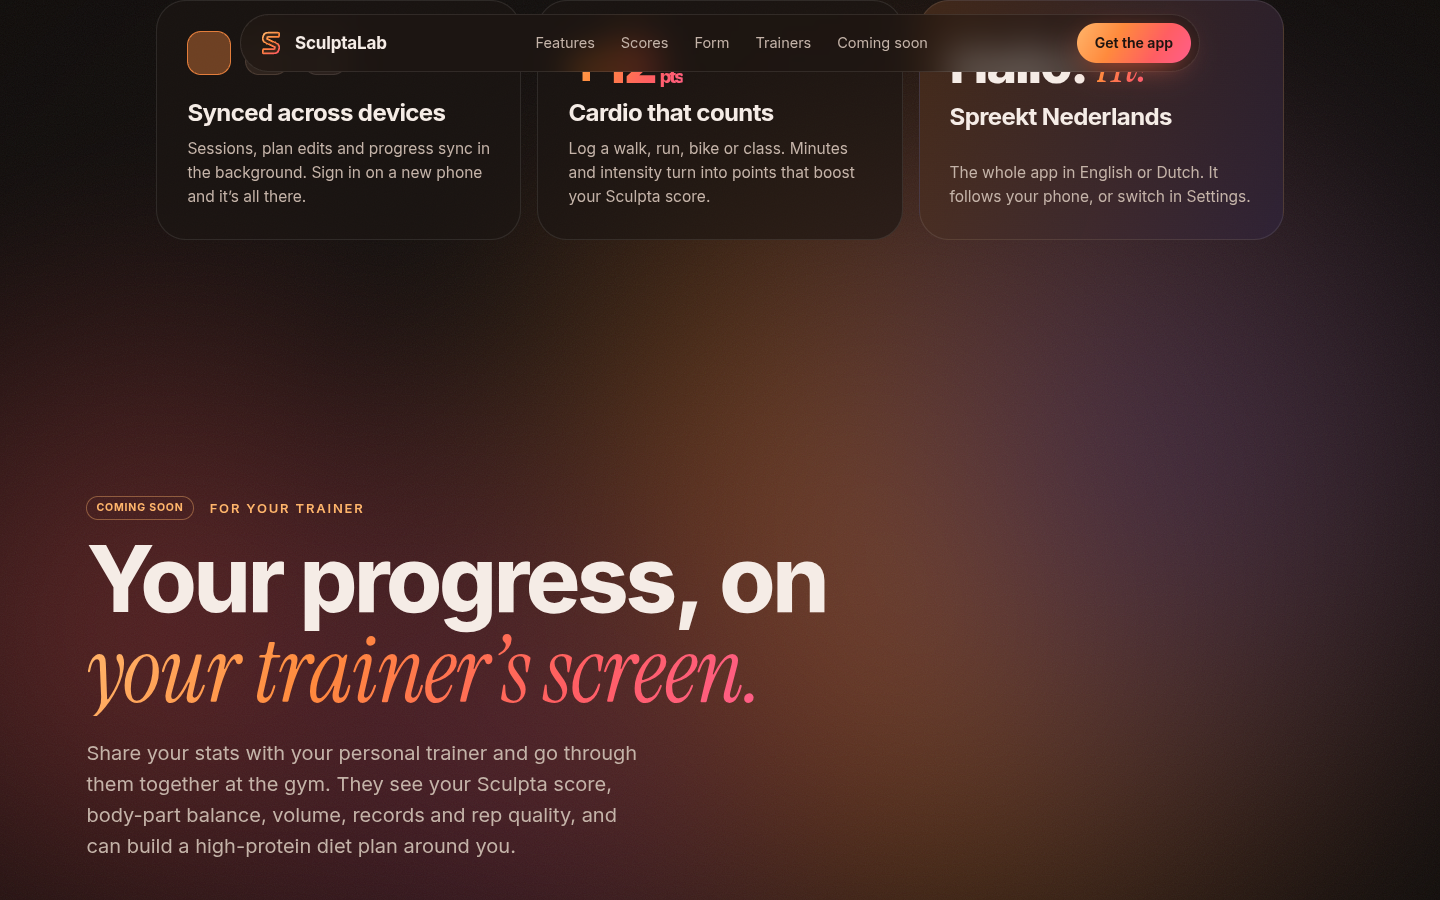
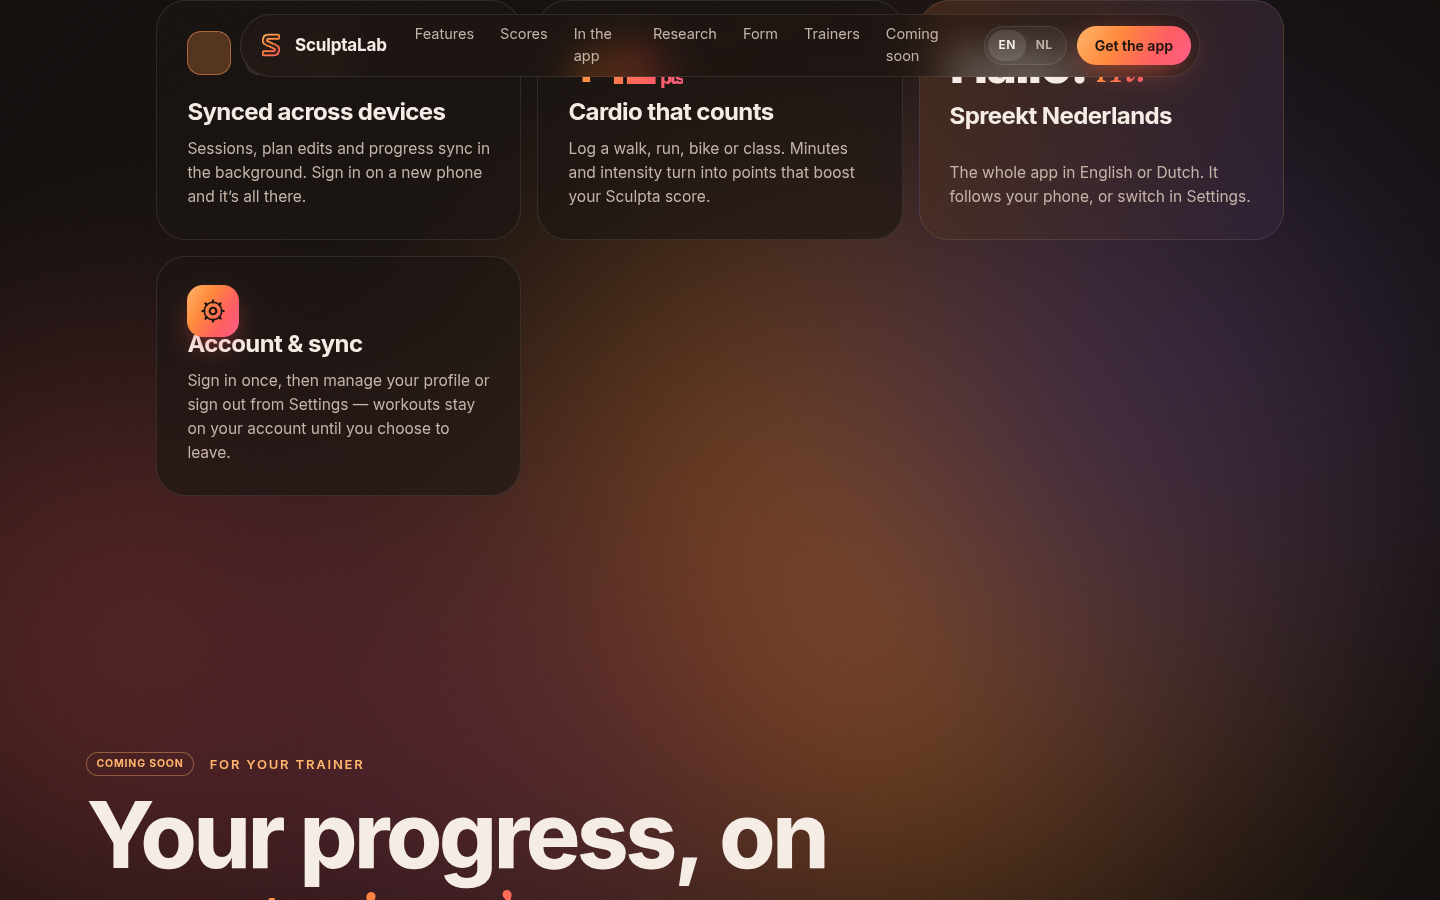
feat(site): integrate muscle flip, showcase, research and NL copy
Wire front/back muscle map flip, consolidate styles, add front.webp,
Dutch strings, and screenshot script targets for new sections.

diff --git a/index.html b/index.html
@@ -15,60 +15,6 @@
 <meta property="og:description" content="Sculpt your foundation. Personal plans, a score for every muscle, live form tracking." />
 <meta property="og:image" content="/og.png" />
 <meta property="og:type" content="website" />
-<style>
-.showcase,.research{padding:clamp(100px,16vh,180px) max(24px,6vw);max-width:1440px;margin:0 auto}
-.showcase-grid{display:grid;grid-template-columns:repeat(2,1fr);gap:clamp(20px,3vw,28px);margin-top:48px}
-.sc-feature{padding:24px;border-radius:28px;background:linear-gradient(180deg,rgba(42,33,29,.65),rgba(28,21,18,.4));border:1px solid var(--line)}
-.sc-feature h3{font-size:18px;margin-bottom:14px;letter-spacing:-.02em}
-.sc-feature .phone.sc-phone{width:min(240px,100%);margin:0 auto}
-.sc-feature .screen{position:relative;inset:auto;border-radius:28px;min-height:380px;padding:48px 14px 14px;font-size:11px}
-.mmap-body{position:relative;justify-self:center}
-.b2-flip{position:absolute;top:10px;right:10px;z-index:3;width:36px;height:36px;border-radius:50%;border:1px solid var(--line);background:rgba(12,10,9,.85);color:var(--ink);font-size:18px;cursor:pointer;backdrop-filter:blur(8px)}
-.body2d .b2-front{display:none}
-.cal-mo{font-size:13px;font-weight:700;margin-bottom:10px}
-.cal-grid{display:grid;grid-template-columns:repeat(7,1fr);gap:4px;text-align:center;font-size:9px;color:var(--muted)}
-.cal-grid b{display:grid;place-items:center;aspect-ratio:1;border-radius:8px;background:rgba(255,255,255,.04);position:relative}
-.cal-grid b.sel{background:rgba(255,138,61,.22);box-shadow:inset 0 0 0 1px rgba(255,138,61,.45);color:var(--ink)}
-.cal-grid b .dots{position:absolute;bottom:3px;left:50%;transform:translateX(-50%);display:flex;gap:2px}
-.cal-grid b .dots i{width:4px;height:4px;border-radius:50%}
-.cal-panel{margin-top:10px;padding:10px;border-radius:14px;background:rgba(255,255,255,.04);border:1px solid var(--line)}
-.s-dash .spark{width:72px;height:28px;flex:none}
-.s-dash .dash-mini{display:grid;grid-template-columns:1fr 1fr;gap:8px;margin-top:8px}
-.s-dash .radar-mini{height:88px}
-.s-dash .parts-mini{display:grid;grid-template-columns:1fr 1fr;gap:4px;font-size:9px}
-.s-dash .parts-mini div{display:flex;align-items:center;gap:4px}
-.s-dash .parts-mini i{flex:1;height:4px;border-radius:4px;background:rgba(255,255,255,.08);position:relative;overflow:hidden}
-.s-dash .parts-mini i::after{content:"";position:absolute;inset:0;width:var(--v,50%);background:var(--grad)}
-.stat-strip{display:flex;gap:8px;margin-top:8px;font-size:9px}
-.stat-strip span{flex:1;padding:6px;border-radius:10px;background:rgba(255,255,255,.05);text-align:center}
-.stat-strip b{display:block;font-size:13px}
-.led-row{display:grid;gap:8px;margin-top:4px}
-.led-row .lr{display:grid;grid-template-columns:72px 1fr auto;gap:8px;align-items:center;font-size:10px}
-.led-track{position:relative;height:22px;border-radius:8px;background:rgba(255,255,255,.06);overflow:hidden}
-.led-track s{position:absolute;top:4px;bottom:4px;left:28%;right:22%;border:1px dashed rgba(255,255,255,.25);border-radius:4px}
-.led-track i{position:absolute;inset:3px auto 3px 0;width:var(--v,50%);border-radius:6px;background:var(--grad)}
-.sess-head{font-size:12px;font-weight:700}
-.sess-meta{display:flex;flex-wrap:wrap;gap:8px;margin:8px 0;font-size:9px;color:var(--muted)}
-.sess-meta span{padding:4px 8px;border-radius:999px;background:rgba(255,255,255,.06)}
-.research-wrap{display:grid;grid-template-columns:1fr 1fr;gap:clamp(24px,4vw,48px);align-items:start;margin-top:48px}
-.research-wrap .phone{width:min(280px,100%);margin:0 auto}
-.evidence-card{padding:28px;border-radius:28px;background:linear-gradient(180deg,rgba(42,33,29,.72),rgba(28,21,18,.45));border:1px solid var(--line)}
-.evidence-card .chip.o{margin-bottom:12px}
-.ev-meter{margin:12px 0}
-.ev-meter label{display:flex;justify-content:space-between;font-size:12px;margin-bottom:4px}
-.ev-meter .bar{height:6px;border-radius:6px;background:rgba(255,255,255,.08);overflow:hidden}
-.ev-meter .bar i{display:block;height:100%;width:var(--v,80%);background:var(--grad);border-radius:6px}
-.research-strip{margin-top:16px;padding-top:12px;border-top:1px solid var(--line);font-size:11px;color:var(--muted)}
-.research-strip span{display:block;font-size:10px;letter-spacing:.1em;text-transform:uppercase;color:var(--b1);margin-bottom:6px}
-@media (max-width:900px){.showcase-grid{grid-template-columns:1fr}.research-wrap{grid-template-columns:1fr}.evidence-card{display:none}}
-@media (min-width:901px){.research-wrap .phone{display:block}}
-.bx-settings{min-height:200px}
-.bx-settings .fico{width:44px;height:44px;border-radius:14px;display:grid;place-items:center;background:rgba(255,138,61,.12);margin-bottom:12px}
-.bx-settings .fico svg{width:22px;height:22px;stroke:var(--b1);fill:none;stroke-width:1.8}
-.hero .scard .spark{width:64px;height:22px;margin-left:auto}
-.hero .scard .row.end{align-items:center;gap:10px}
-@media (max-width:700px){.nav nav{gap:14px;font-size:12.5px;flex-wrap:wrap}}
-</style>
 </head>
 <body>
 <a class="skip" href="#main">Skip to content</a>
@@ -314,12 +260,13 @@
       <h3>Your muscle map</h3>
       <p class="mm-sub">Tap a muscle to light it up. Tap ↻ beside the body to flip front and back.</p>
       <div class="mmap">
-      <div class="mmap-body">
-        <button type="button" class="b2-flip" aria-label="Flip body front or back">↻</button>
-      <figure class="body2d" aria-label="SculptaLab 2D muscle map; use ↻ to flip front and back; glutes highlighted on back view">
-        <img class="b2-base b2-back" src="/anatomy/back.webp" width="357" height="948" alt="" loading="lazy" decoding="async" />
-        <img class="b2-base b2-front" src="/anatomy/front.webp" width="357" height="948" alt="" loading="lazy" decoding="async" hidden />
-        <img class="b2-hl on" data-for="back-glutes" src="/anatomy/back-glutes.webp" width="357" height="948" alt="" loading="lazy" decoding="async" /><img class="b2-hl" data-for="back-hamstrings" src="/anatomy/back-hamstrings.webp" width="357" height="948" alt="" loading="lazy" decoding="async" /><img class="b2-hl" data-for="front-quads" src="/anatomy/front-quads.webp" width="357" height="948" alt="" loading="lazy" decoding="async" /><img class="b2-hl" data-for="back-calves" src="/anatomy/back-calves.webp" width="357" height="948" alt="" loading="lazy" decoding="async" /><img class="b2-hl" data-for="back-back" src="/anatomy/back-back.webp" width="357" height="948" alt="" loading="lazy" decoding="async" /><img class="b2-hl" data-for="back-shoulders" src="/anatomy/back-shoulders.webp" width="357" height="948" alt="" loading="lazy" decoding="async" /><img class="b2-hl" data-for="back-arms" src="/anatomy/back-arms.webp" width="357" height="948" alt="" loading="lazy" decoding="async" /><img class="b2-hl" data-for="front-core" src="/anatomy/front-core.webp" width="357" height="948" alt="" loading="lazy" decoding="async" />
+      <div class="mmap-col">
+      <div class="mmap-flip-hit" tabindex="0" role="button" aria-label="Flip body front or back"></div>
+      <figure class="body2d is-back" aria-label="SculptaLab 2D muscle map; tap beside the body or ↻ to flip front and back">
+        <img class="b2-base b2-back-base" src="/anatomy/back.webp" width="357" height="948" alt="" loading="lazy" decoding="async" />
+        <img class="b2-base b2-front-base" src="/anatomy/front.webp" width="357" height="948" alt="" loading="lazy" decoding="async" />
+        <img class="b2-hl on" data-for="back-glutes" data-side="back" src="/anatomy/back-glutes.webp" width="357" height="948" alt="" loading="lazy" decoding="async" /><img class="b2-hl" data-for="back-hamstrings" data-side="back" src="/anatomy/back-hamstrings.webp" width="357" height="948" alt="" loading="lazy" decoding="async" /><img class="b2-hl" data-for="front-quads" data-side="front" src="/anatomy/front-quads.webp" width="357" height="948" alt="" loading="lazy" decoding="async" /><img class="b2-hl" data-for="back-calves" data-side="back" src="/anatomy/back-calves.webp" width="357" height="948" alt="" loading="lazy" decoding="async" /><img class="b2-hl" data-for="back-back" data-side="back" src="/anatomy/back-back.webp" width="357" height="948" alt="" loading="lazy" decoding="async" /><img class="b2-hl" data-for="back-shoulders" data-side="back" src="/anatomy/back-shoulders.webp" width="357" height="948" alt="" loading="lazy" decoding="async" /><img class="b2-hl" data-for="back-arms" data-side="back" src="/anatomy/back-arms.webp" width="357" height="948" alt="" loading="lazy" decoding="async" /><img class="b2-hl" data-for="front-core" data-side="front" src="/anatomy/front-core.webp" width="357" height="948" alt="" loading="lazy" decoding="async" />
+        <button type="button" class="b2-flip" aria-label="Flip body front or back"><svg viewBox="0 0 24 24" aria-hidden="true"><path d="M7 4 3 8l4 4"/><path d="M17 20l4-4-4-4"/><path d="M3 8h12a4 4 0 0 1 4 4v0a4 4 0 0 0 4 4h2"/></svg></button>
         <figcaption class="b2-chip"><i></i><span>Glutes</span></figcaption>
       </figure>
       </div>
@@ -541,7 +488,7 @@
       <p>The whole app in English or Dutch. It follows your phone, or switch in Settings.</p>
     </article>
     <article class="bx bx-settings">
-      <div class="fico" aria-hidden="true"><svg viewBox="0 0 24 24"><circle cx="12" cy="9" r="3.5"/><path d="M5 20c1.5-3.5 4-5 7-5s5.5 1.5 7 5"/><path d="M17 4.5l1.5 2.8 3 .4-2.2 2.1.5 3-2.7-1.5-2.7 1.5.5-3L12 7.7l3-.4z" opacity=".5"/></svg></div>
+      <div class="gear-ico" aria-hidden="true"><svg viewBox="0 0 24 24"><circle cx="12" cy="12" r="3"/><path d="M12 2v2M12 20v2M4.93 4.93l1.41 1.41M17.66 17.66l1.41 1.41M2 12h2M20 12h2M4.93 19.07l1.41-1.41M17.66 6.34l1.41-1.41"/><circle cx="12" cy="12" r="8" fill="none" stroke="currentColor" stroke-width="1.5"/></svg></div>
       <h3>Account &amp; sync</h3>
       <p>Sign in once, then manage your profile or sign out from Settings — workouts stay on your account until you choose to leave.</p>
     </article>

diff --git a/src/style.css b/src/style.css
@@ -503,7 +503,7 @@ em{font-family:var(--serif);font-style:italic;font-weight:400;letter-spacing:-.0
 .sbox-map{grid-column:1/-1}
 .mm-sub{margin-bottom:4px}
 .mmap{display:grid;grid-template-columns:minmax(180px,300px) 1fr;gap:clamp(20px,4vw,56px);align-items:center;margin-top:18px}
-.body2d{position:relative;margin:0;aspect-ratio:357/948;max-height:560px;border-radius:24px;overflow:hidden;background:#07090a;border:1px solid var(--line);box-shadow:0 30px 80px -30px rgba(0,0,0,.8),inset 0 0 60px rgba(255,138,61,.05)}
+.body2d{position:relative;margin:0;aspect-ratio:357/948;max-height:560px;border-radius:24px;overflow:hidden;background:#07090a;border:1px solid var(--line);box-shadow:0 30px 80px -30px rgba(0,0,0,.8),inset 0 0 60px rgba(255,138,61,.05);transform-style:preserve-3d}
 .body2d img{position:absolute;inset:0;width:100%;height:100%;object-fit:contain;transition:opacity .55s var(--ease)}
 .body2d .b2-hl{opacity:0}.body2d .b2-hl.on{opacity:1}
 .b2-chip{position:absolute;left:50%;bottom:14px;transform:translateX(-50%);display:flex;align-items:center;gap:8px;padding:7px 14px;border-radius:99px;background:rgba(12,10,9,.78);border:1px solid color-mix(in srgb,var(--cur,#B44DFF) 60%,transparent);font-size:13px;font-weight:600;white-space:nowrap;backdrop-filter:blur(6px)}
@@ -516,6 +516,49 @@ em{font-family:var(--serif);font-style:italic;font-weight:400;letter-spacing:-.0
 .mmap .mlist li.on{background:color-mix(in srgb,var(--mc) 14%,transparent);box-shadow:inset 0 0 0 1px color-mix(in srgb,var(--mc) 45%,transparent)}
 .mmap .mlist li.on .bar i{background:var(--mc)!important}
 .mmap .mlist li{grid-template-columns:120px 1fr}
+.mmap-col{position:relative;justify-self:center}
+.mmap-flip-hit{position:absolute;right:100%;top:50%;width:clamp(28px,8vw,48px);height:min(420px,56vw);margin-right:10px;transform:translateY(-50%);z-index:4;cursor:pointer;border-radius:12px;background:linear-gradient(90deg,transparent,rgba(255,138,61,.06))}
+.mmap-flip-hit:focus-visible{outline:2px solid var(--b2);outline-offset:2px}
+.sc-feature .phone{margin:14px auto 0}
+.sc-feature .screen{position:relative;inset:auto;min-height:380px;padding:48px 14px 14px;font-size:11px}
+.cal-mo{font-size:13px;font-weight:700;margin-bottom:10px}
+.s-cal .cal-grid{display:grid;grid-template-columns:repeat(7,1fr);gap:4px;text-align:center;font-size:9px;color:var(--muted)}
+.s-cal .cal-grid b{display:grid;place-items:center;aspect-ratio:1;border-radius:8px;background:rgba(255,255,255,.04);position:relative;font-weight:650}
+.s-cal .cal-grid b.sel{background:rgba(255,138,61,.22);box-shadow:inset 0 0 0 1px rgba(255,138,61,.45);color:var(--ink)}
+.s-cal .cal-grid b .dots{position:absolute;bottom:3px;left:50%;transform:translateX(-50%);display:flex;gap:2px}
+.s-cal .cal-grid b .dots i{width:4px;height:4px;border-radius:50%}
+.s-dash .spark{width:72px;height:28px;flex:none}
+.s-dash .dash-mini{display:grid;grid-template-columns:1fr 1fr;gap:8px;margin-top:8px}
+.s-dash .radar-mini{width:100%;height:88px;display:block}
+.s-dash .parts-mini{display:grid;grid-template-columns:1fr 1fr;gap:4px;font-size:9px;text-align:left}
+.s-dash .parts-mini div{display:grid;grid-template-columns:auto 1fr auto;gap:4px;align-items:center}
+.s-dash .parts-mini i{height:4px;border-radius:4px;background:rgba(255,255,255,.08);position:relative;overflow:hidden;grid-column:2}
+.s-dash .parts-mini i::after{content:"";position:absolute;inset:0;width:var(--v,50%);background:var(--grad)}
+.stat-strip{display:flex;gap:8px;margin-top:8px;font-size:9px}
+.stat-strip span{flex:1;padding:6px;border-radius:10px;background:rgba(255,255,255,.05);text-align:center}
+.stat-strip b{display:block;font-size:13px;color:var(--ink)}
+.led-row{display:grid;gap:8px;margin-top:4px}
+.led-row .lr{display:grid;grid-template-columns:72px 1fr auto;gap:8px;align-items:center;font-size:10px}
+.led-track{position:relative;height:22px;border-radius:8px;background:rgba(255,255,255,.06);overflow:hidden}
+.led-track s{position:absolute;top:4px;bottom:4px;left:28%;right:22%;border:1px dashed rgba(255,255,255,.25);border-radius:4px}
+.led-track i{position:absolute;inset:3px auto 3px 0;width:var(--v,50%);border-radius:6px;background:var(--grad)}
+.chip.lag{background:rgba(255,194,77,.15);color:#FFC24D;border:1px solid rgba(255,194,77,.35)}
+.sess-head{font-size:12px;font-weight:700}
+.sess-meta{display:flex;flex-wrap:wrap;gap:8px;margin:8px 0;font-size:9px;color:var(--muted)}
+.sess-meta span{padding:4px 8px;border-radius:999px;background:rgba(255,255,255,.06)}
+.research-wrap,.research-grid{display:grid;grid-template-columns:minmax(240px,.95fr) 1.05fr;gap:clamp(24px,5vw,56px);align-items:center;margin-top:56px}
+.research-wrap .phone{width:min(280px,100%);margin:0 auto}
+.s-learn .ev-meter{margin:10px 0}
+.s-learn .ev-meter label{display:flex;justify-content:space-between;font-size:11px;margin-bottom:4px;color:var(--muted)}
+.s-learn .ev-meter .bar{height:6px;border-radius:6px;background:rgba(255,255,255,.08);overflow:hidden}
+.s-learn .ev-meter .bar i{display:block;height:100%;width:var(--v,80%);background:var(--grad);border-radius:6px}
+.evidence-card .chip.o{margin-bottom:12px}
+.evidence-card .ev-meter{margin:14px 0}
+.evidence-card .ev-meter label{display:flex;justify-content:space-between;font-size:13px;margin-bottom:4px}
+.research-strip span{display:block;width:100%;font-size:10px;letter-spacing:.1em;text-transform:uppercase;color:var(--b1);margin-bottom:4px;font-weight:650}
+.hero-phone .scard .spark{width:64px;height:22px;margin-left:auto;flex:none}
+.hero-phone .scard .row.end{align-items:center;gap:10px}
+@media (max-width:900px){.research-wrap,.research-grid{grid-template-columns:1fr}.evidence-card{display:none}}
 @media (max-width:700px){
   .mmap{grid-template-columns:1fr}
   .body2d{width:min(62vw,240px);margin:0 auto}
@@ -568,7 +611,7 @@ em{font-family:var(--serif);font-style:italic;font-weight:400;letter-spacing:-.0
 .dash-cards{display:grid;grid-template-columns:repeat(2,1fr);gap:8px;margin-top:8px}
 .dash-cards .mc{padding:10px}
 .dash-spark{display:block;width:100%;height:36px;margin-top:6px}
-.dash-spark path,.dash-spark polyline{fill:none;stroke:url(#dashGrad, var(--b2));stroke-width:1.6;stroke-linecap:round}
+.dash-spark path,.dash-spark polyline{fill:none;stroke:var(--b2);stroke-width:1.6;stroke-linecap:round}
 .dash-radar{width:min(100%,120px);height:auto;margin:4px auto 0;display:block;opacity:.95}
 .dash-parts{display:grid;grid-template-columns:1fr 1fr;gap:8px 10px;margin-top:8px;font-size:10px}
 .dash-parts div{display:grid;gap:3px;color:var(--muted)}
@@ -599,8 +642,9 @@ em{font-family:var(--serif);font-style:italic;font-weight:400;letter-spacing:-.0
 
 @media (max-width:980px){
   .showcase-grid{grid-template-columns:1fr}
-  .research-grid{grid-template-columns:1fr}
-  .research-grid .phone,.research-grid .sc-phone{margin:0 auto}
+  .research-wrap,.research-grid{grid-template-columns:1fr}
+  .research-wrap .phone,.research-grid .phone,.research-grid .sc-phone{margin:0 auto}
+  .nav nav{gap:14px;font-size:12.5px;flex-wrap:wrap}
   .bx-settings{grid-column:span 2}
 }
 @media (max-width:700px){

diff --git a/src/main.js b/src/main.js
@@ -149,8 +149,11 @@ if (!reduced) {
     gsap.from(h.querySelectorAll(".wd"), { yPercent: 60, opacity: 0, rotateX: -40, duration: 1.1, stagger: 0.06, ease: "expo.out",
       scrollTrigger: { trigger: h, start: "top 85%" } });
   });
-  gsap.utils.toArray(".fcard,.bx,.sc-card").forEach((el, i) => {
+  gsap.utils.toArray(".fcard,.bx,.sc-card,.sc-feature,.evidence-card").forEach((el, i) => {
     gsap.from(el, { y: 60, opacity: 0, duration: 1.1, ease: "expo.out", delay: (i % 3) * 0.08, scrollTrigger: { trigger: el, start: "top 90%" } });
+  });
+  gsap.utils.toArray(".showcase .spark path, .s-dash .spark path").forEach((p) => {
+    gsap.fromTo(p, { strokeDasharray: 1, strokeDashoffset: 1 }, { strokeDashoffset: 0, duration: 2, ease: "power2.inOut", scrollTrigger: { trigger: p, start: "top 88%" } });
   });
   gsap.from(".dl-mark", { scale: 0.4, rotate: -90, opacity: 0, duration: 1.4, ease: "expo.out", scrollTrigger: { trigger: ".download", start: "top 70%" } });
   gsap.fromTo(".dl-glow", { scale: 0.6 }, { scale: 1.15, ease: "none", scrollTrigger: { trigger: ".download", start: "top bottom", end: "bottom bottom", scrub: true } });
@@ -330,19 +333,53 @@ if (!reduced) {
   if (!fig || !items.length) return;
   const hls = [...fig.querySelectorAll(".b2-hl")];
   const chip = fig.querySelector(".b2-chip span");
+  const sideOf = (key) => (key.startsWith("front-") ? "front" : "back");
+  const viewSide = () => (fig.classList.contains("is-front") ? "front" : "back");
   let idx = 0, timer = 0, hold = 0, visible = false;
   const set = (i) => {
     idx = i; const li = items[i]; const key = li.dataset.m;
+    if (sideOf(key) !== viewSide()) {
+      fig.classList.toggle("is-front", sideOf(key) === "front");
+      fig.classList.toggle("is-back", sideOf(key) === "back");
+    }
     items.forEach((x) => x.classList.toggle("on", x === li));
     hls.forEach((h) => h.classList.toggle("on", h.dataset.for === key));
     fig.style.setProperty("--cur", li.style.getPropertyValue("--mc"));
     chip.textContent = li.querySelector("span").textContent;
   };
-  const tick = () => { if (visible && Date.now() > hold) set((idx + 1) % items.length); };
+  const flip = () => {
+    const front = viewSide() === "back";
+    fig.classList.toggle("is-front", front);
+    fig.classList.toggle("is-back", !front);
+    hold = Date.now() + 7000;
+    const side = viewSide();
+    if (sideOf(items[idx].dataset.m) !== side) {
+      const j = items.findIndex((li) => sideOf(li.dataset.m) === side);
+      if (j >= 0) set(j);
+      else {
+        hls.forEach((h) => h.classList.remove("on"));
+        chip.textContent = side === "front" ? "Front view" : "Back view";
+      }
+    } else set(idx);
+    if (!reduced) gsap.fromTo(fig, { rotateY: front ? -12 : 12 }, { rotateY: 0, duration: 0.65, ease: "expo.out" });
+  };
+  const tick = () => {
+    if (!visible || Date.now() <= hold) return;
+    const side = viewSide();
+    const pool = items.map((_, k) => k).filter((k) => sideOf(items[k].dataset.m) === side);
+    if (!pool.length) return;
+    const pos = pool.indexOf(idx);
+    set(pool[(pos + 1) % pool.length]);
+  };
   items.forEach((li, i) => {
     const go = () => { hold = Date.now() + 7000; set(i); };
     li.addEventListener("click", go); li.addEventListener("mouseenter", go);
     li.addEventListener("keydown", (e) => { if (e.key === "Enter" || e.key === " ") { e.preventDefault(); go(); } });
+  });
+  fig.querySelector(".b2-flip")?.addEventListener("click", (e) => { e.stopPropagation(); flip(); });
+  document.querySelector(".mmap-flip-hit")?.addEventListener("click", flip);
+  document.querySelector(".mmap-flip-hit")?.addEventListener("keydown", (e) => {
+    if (e.key === "Enter" || e.key === " ") { e.preventDefault(); flip(); }
   });
   new IntersectionObserver((es) => { visible = es[0].isIntersecting; }, { threshold: 0.3 }).observe(fig);
   set(0);

diff --git a/src/i18n-nl.js b/src/i18n-nl.js
@@ -1,6 +1,8 @@
 // Dutch copy for the EN/NL toggle. Keys are the English text content (whitespace-normalised).
 export const NL = {
   "Features": "Functies", "Scores": "Scores", "Form": "Techniek", "Trainers": "Trainers", "Coming soon": "Binnenkort",
+  "In the app": "In de app",
+  "Research": "Onderzoek",
   "The workout bubble": "De workout-bubbel", "Gentle reminders": "Rustige herinneringen", "Sculpt": "Vorm", "your": "je", "foundation.": "basis.",
   "Get the app": "Download de app",
   "Better shape, better strength, better everything. A plan shaped around your body, not a template, that progresses you naturally into your best shape. It takes time, and SculptaLab shows you every step.": "Betere vorm, meer kracht, alles beter. Een plan dat om jouw lichaam draait, geen sjabloon, en je stap voor stap naar je beste vorm brengt. Het kost tijd, en SculptaLab laat je elke stap zien.",
@@ -20,6 +22,21 @@ export const NL = {
   "Every set you log is mapped to the muscles it trains. SculptaLab tracks weekly sets for each one against a science-based target range, then rolls it all into your Sculpta score.": "Elke set die je logt wordt gekoppeld aan de spieren die hij traint. SculptaLab volgt per spier je wekelijkse sets tegen een wetenschappelijk doelbereik en vat alles samen in je Sculpta-score.",
   "Your muscle map": "Je spierkaart",
   "Tap a muscle and watch it light up on the 2D body.": "Tik op een spier en zie hem oplichten op het 2D-lichaam.",
+  "Tap a muscle to light it up. Tap ↻ beside the body to flip front and back.": "Tik op een spier om hem te laten oplichten. Tik op ↻ naast het lichaam om voor- en achterkant te wisselen.",
+  "See your training clearly.": "Zie je training <em>helder.</em>",
+  "Calendar, home dashboard, volume ledger and session detail — the same surfaces you use between workouts, with your plan, Sculpta score and muscle targets in one place.": "Kalender, startdashboard, volume-ledger en sessiedetail — dezelfde schermen tussen trainingen door, met je plan, Sculpta-score en spierdoelen op één plek.",
+  "Sessions calendar": "Trainingskalender",
+  "Home dashboard": "Startdashboard",
+  "Volume ledger": "Volume-ledger",
+  "Session detail": "Sessiedetail",
+  "Illustrative mockup data · screens shown for demo": "Illustratieve demogegevens · schermen ter demonstratie",
+  "Exercise selection": "Oefeningkeuze",
+  "Why this exercise?": "Waarom <em>deze</em> oefening?",
+  "SculptaLab suggests swaps and progressions using published exercise-science research — training guidance, not medical advice. See why a move fits your goal before you load the bar.": "SculptaLab stelt wissels en progressies voor op basis van gepubliceerd bewegingswetenschappelijk onderzoek — trainingshulp, geen medisch advies. Zie waarom een oefening bij je doel past voordat je de stang laadt.",
+  "Backed by research": "Onderbouwd door onderzoek",
+  "Summaries for education only — not a diagnosis or treatment recommendation.": "Samenvattingen alleen ter uitleg — geen diagnose of behandeladvies.",
+  "Account & sync": "Account &amp; sync",
+  "Sign in once, then manage your profile or sign out from Settings — workouts stay on your account until you choose to leave.": "Log één keer in, beheer je profiel of log uit via Instellingen — trainingen blijven op je account tot je zelf vertrekt.",
   "weekly target range · lagging muscles get a gentle nudge": "wekelijks doelbereik · achterblijvende spieren krijgen een zachte duw",
   "One score for your week": "Eén score voor je week",
   "Balance across lower body, upper body and consistency, plus a bonus from cardio points. Cardio can only add to it, never take away.": "Balans tussen onderlichaam, bovenlichaam en regelmaat, plus een bonus uit cardiopunten. Cardio telt alleen op, nooit af.",
